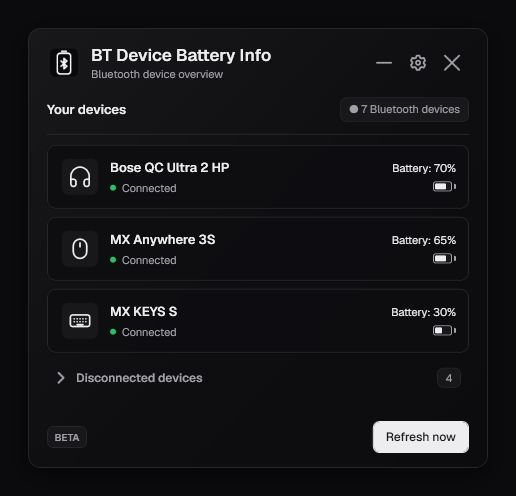
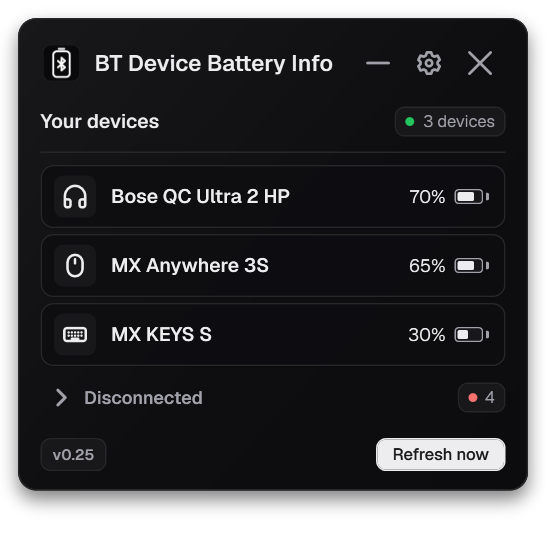
README: refresh System and Elegant Black screenshots
- Main window, Options and taskbar widget with the current look
- Update notice next to the version badge
- Low battery notification with the device icon

diff --git a/README.md b/README.md
@@ -89,7 +89,7 @@ Latest release: `0.25`.
 
 **Update notice**
 
-![Update notice next to the BETA badge in the main window](BTDeviceBatteryInfo/docs/images/update-notice.png)
+![Update notice next to the version badge in the main window](BTDeviceBatteryInfo/docs/images/update-notice.png)
 
 ## Quick start
 
@@ -272,7 +272,7 @@ If you like BT Device Battery Info and find it useful, you can support its devel
 
 **Aviso de nueva versión**
 
-![Aviso de nueva versión junto a la etiqueta BETA en la ventana principal](BTDeviceBatteryInfo/docs/images/update-notice.png)
+![Aviso de nueva versión junto a la etiqueta de versión en la ventana principal](BTDeviceBatteryInfo/docs/images/update-notice.png)
 
 ### Inicio rápido
 
